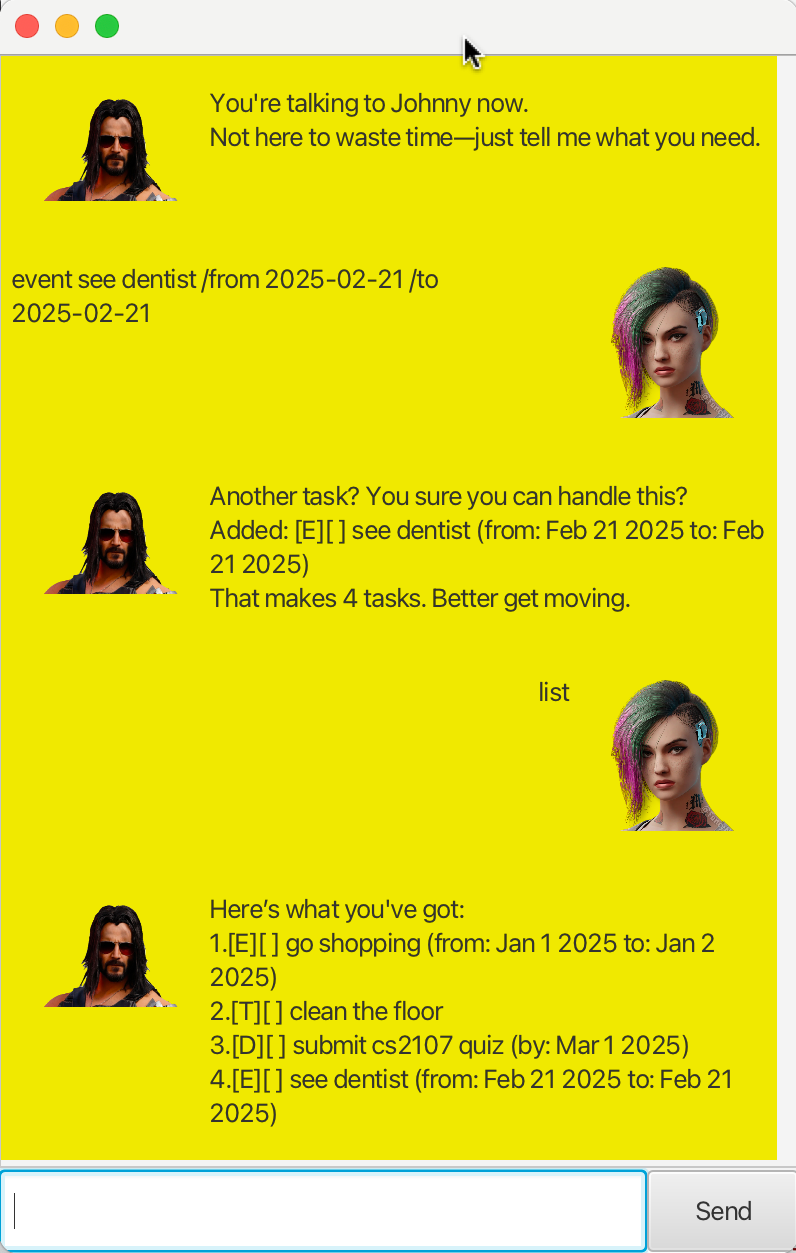
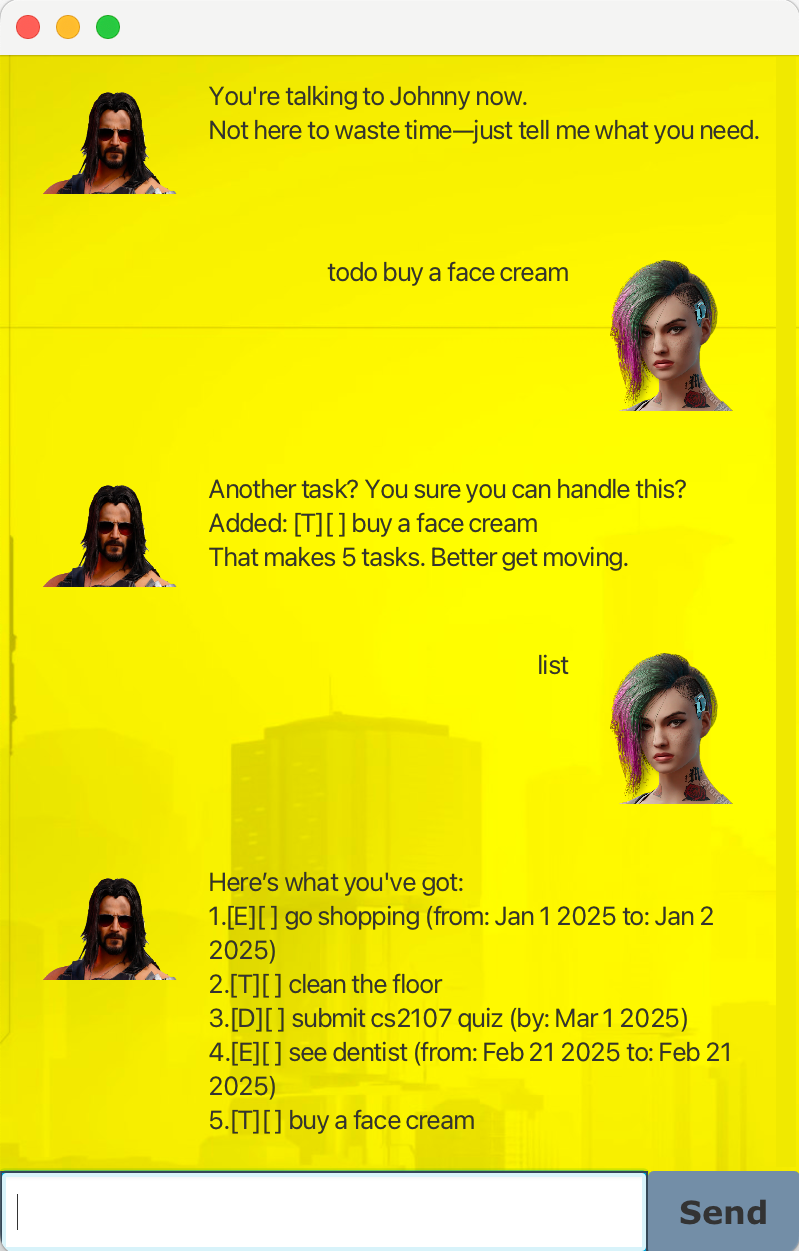
Change background image to final version

diff --git a/src/main/resources/css/main.css b/src/main/resources/css/main.css
@@ -1,5 +1,5 @@
 .root {
-    main-color: #788da5;
+    main-color: #efe901;
     -fx-background-color: main-color;
     -fx-background-image: url("../images/background.jpg");
     -fx-background-size: cover;

diff --git a/src/main/java/johnny/ui/MainWindow.java b/src/main/java/johnny/ui/MainWindow.java
@@ -38,7 +38,6 @@ public class MainWindow extends AnchorPane {
      */
     @FXML
     public void initialize() {
-        //dialogContainer.setStyle("-fx-background-color: #efe901;");
         scrollPane.vvalueProperty().bind(dialogContainer.heightProperty());
     }
 
